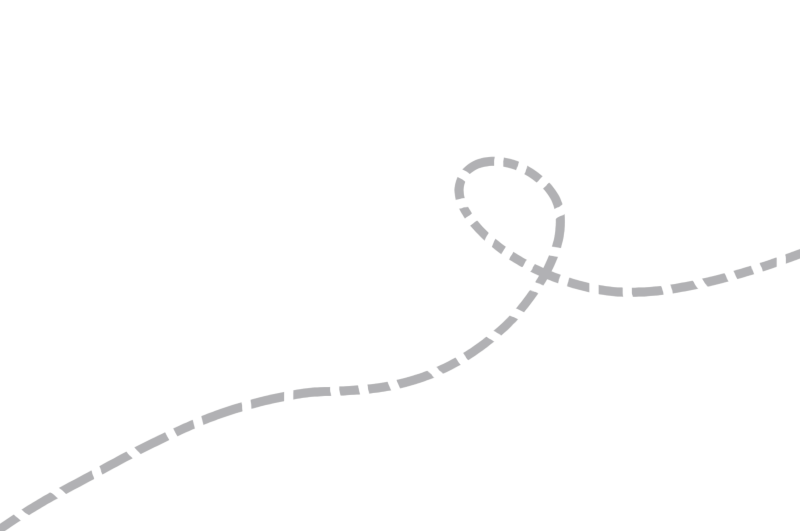
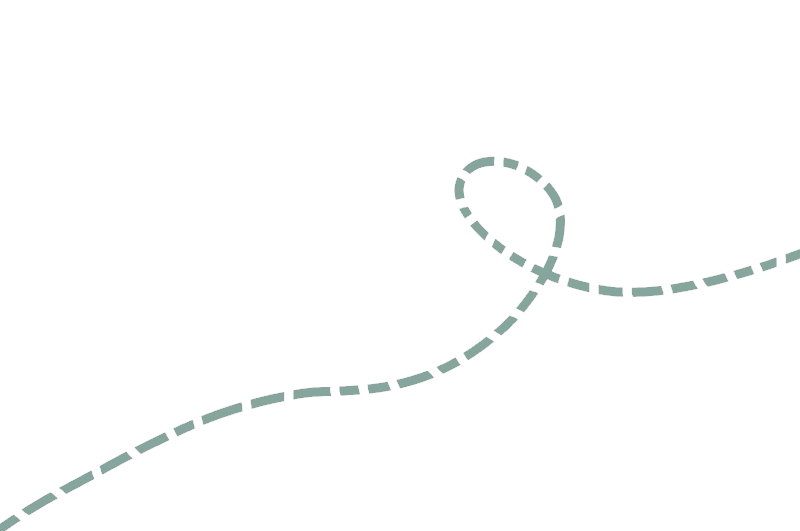
replace color dot img (grey for green)

diff --git a/portfolio.html b/portfolio.html
@@ -8,6 +8,7 @@
     </head>
 
     <body>
+        <h2>Portfolio</h2>
         <div class="container">
             <section class="chemin">
                 <div class="grid background">
@@ -81,13 +82,13 @@
 <hr>
             <section class="adventure">
                 <section class="presentation">
-                    <h2>Résultat de mon aventure !</h2>
+                    <h3>Résultat de mon aventure !</h3>
                     <p>Ici tu pourras retrouver l'intégralité de mes images réalisées durant mon épopée !</p>
                 </section>
 
                 <section id="pays1">
-                    <h3>Espagne</h3>
-                    <p>Voici les images que j'ai réalisé en Espagne</p>
+                    <h4>Espagne</h4>
+                    <p>Voici les images que j'ai réalisé en Espagne. Anecdote ; ma citroën BX m'as laché dans le desert !</p>
                     <div class="myPicture">
                         <img src="image/voyage/pays1/photographie-audreyritzenthaler14.jpg" alt="">
                         <img src="image/voyage/pays1/photographie-audreyritzenthaler16.jpg" alt="">
@@ -99,8 +100,8 @@
                 </section>
 <hr>
                 <section id="pays2">
-                    <h3>Hollande</h3>
-                    <p>Voici les images que j'ai prise en Hollande</p>
+                    <h4>Hollande</h4>
+                    <p>Voici les images que j'ai prise en Hollande. True fact ; leurs pancakes sont excellent !</p>
                     <div class="myPicture">
                         <img src="image/voyage/pays2/photographie-audreyritzenthaler64.jpg" alt="">
                         <img src="image/voyage/pays2/photographie-audreyritzenthaler65.jpg" alt="">
@@ -112,8 +113,8 @@
                 </section>
 <hr>
                 <section id="pays3">
-                    <h3>France</h3>
-                    <p>Voici les images que j'ai prise en France</p>
+                    <h4>France</h4>
+                    <p>Voici les images que j'ai prise en France ; j'adore leurs vins blancs alsaciens !</p>
                     <div class="myPicture">
                         <img src="image/voyage/pays3/photographie-audreyritzenthaler27.jpg" alt="">
                         <img src="image/voyage/pays3/photographie-audreyritzenthaler28.jpg" alt="">
@@ -125,8 +126,8 @@
                 </section>
 <hr>
                 <section id="pays4">
-                    <h3>Irelande</h3>
-                    <p>Voici les images que j'ai prise en Irelande</p>
+                    <h4>Irelande</h4>
+                    <p>Voici les images que j'ai prise en Irelande. Les paysages sont à couper le souffle !</p>
                     <div class="myPicture">
                         <img src="image/voyage/pays4/photographie-audreyritzenthaler1.jpg" alt="">
                         <img src="image/voyage/pays4/photographie-audreyritzenthaler47.jpg" alt="">

diff --git a/style.css b/style.css
@@ -4,19 +4,25 @@
 }
 
 h2 {
-    font-size: 70px;
-    text-transform: uppercase;
+    font-size: 75px;
+    margin: 0.5em;
+    font-family: 'Amatic SC', cursive;
+    color: #86A69D;
+    text-align: center;
+}
+
+h3 {
+    font-size: 60px;
     margin: 2em;
     margin-bottom: 0.5em;
     font-family: 'Amatic SC', cursive;
     color: #86A69D;
 }
 
-h3 {
+h4 {
     font-size: 40px;
     text-align: left;
     margin: 0.8em;
-    text-transform: uppercase;
     font-family: 'Amatic SC', cursive;
     color: #86A69D;
 }
@@ -83,7 +89,8 @@ p {
    }
 .overlay-image .text {
     color: #fff;
-    font-size: 30px;
+    font-family: 'Amatic SC', cursive;
+    font-size: 40px;
     line-height: 1.5em;
     text-shadow: 2px 2px 2px #000;
     text-align: center;
@@ -143,12 +150,12 @@ p {
 
 @media screen and (max-width:961px) {
 
-    h2 {
-        font-size: 30px;
+    h3 {
+        font-size: 50px;
     }
     
-    h3 {
-        font-size: large;
+    h4 {
+        font-size: 35px;
         text-align: left;
         margin: 2em;
         text-transform: uppercase;
@@ -175,7 +182,7 @@ p {
     }
 
     .overlay-image .text {
-        font-size: 20px;
+        font-size: 50px;
     }
 
     .background {
